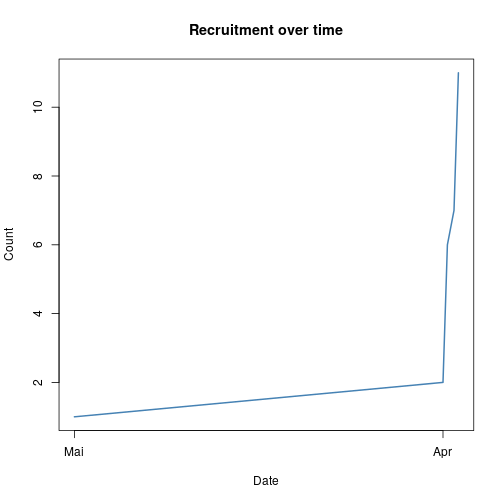
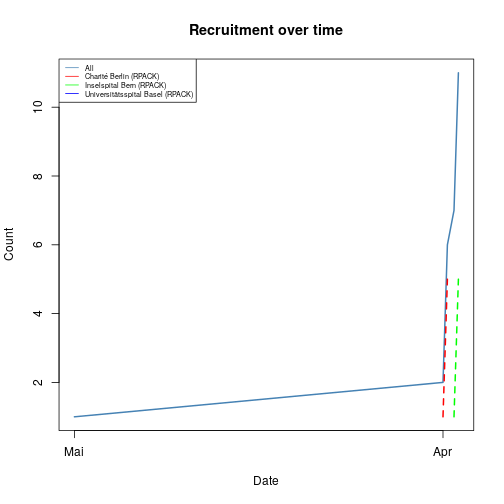
adjustments to allow centre splitting

diff --git a/README.md b/README.md
@@ -1,3 +1,4 @@
+
 <!-- README.md is generated from README.Rmd. Please edit that file -->
 
 
@@ -251,18 +252,39 @@ plot_recruitment(ctu05, return_data = TRUE)
 ```
 
 ```
-##          date case_count
-## 1  2018-05-01          1
-## 2  2019-04-01          2
-## 3  2019-04-02          3
-## 4  2019-04-03          4
-## 5  2019-04-04          5
-## 6  2019-04-05          6
-## 7  2019-04-11          7
-## 8  2019-04-12          8
-## 9  2019-04-13          9
-## 10 2019-04-14         10
-## 11 2019-04-15         11
+## [[1]]
+##          date centre_id case_count                      centre_name
+## 11 2018-05-01       441          1 Universitätsspital Basel (RPACK)
+## 1  2019-04-01       462          2           Charité Berlin (RPACK)
+## 2  2019-04-02       462          3           Charité Berlin (RPACK)
+## 3  2019-04-03       462          4           Charité Berlin (RPACK)
+## 4  2019-04-04       462          5           Charité Berlin (RPACK)
+## 5  2019-04-05       462          6           Charité Berlin (RPACK)
+## 6  2019-04-11       461          7         Inselspital Bern (RPACK)
+## 7  2019-04-12       461          8         Inselspital Bern (RPACK)
+## 8  2019-04-13       461          9         Inselspital Bern (RPACK)
+## 9  2019-04-14       461         10         Inselspital Bern (RPACK)
+## 10 2019-04-15       461         11         Inselspital Bern (RPACK)
+## 
+## [[2]]
+##         date centre_id case_count            centre_name
+## 1 2019-04-01       462          1 Charité Berlin (RPACK)
+## 2 2019-04-02       462          2 Charité Berlin (RPACK)
+## 3 2019-04-03       462          3 Charité Berlin (RPACK)
+## 4 2019-04-04       462          4 Charité Berlin (RPACK)
+## 5 2019-04-05       462          5 Charité Berlin (RPACK)
+## 
+## [[3]]
+##          date centre_id case_count              centre_name
+## 6  2019-04-11       461          1 Inselspital Bern (RPACK)
+## 7  2019-04-12       461          2 Inselspital Bern (RPACK)
+## 8  2019-04-13       461          3 Inselspital Bern (RPACK)
+## 9  2019-04-14       461          4 Inselspital Bern (RPACK)
+## 10 2019-04-15       461          5 Inselspital Bern (RPACK)
+## 
+## [[4]]
+##          date centre_id case_count                      centre_name
+## 11 2018-05-01       441          1 Universitätsspital Basel (RPACK)
 ```
 
 #### Form status summary statistics
